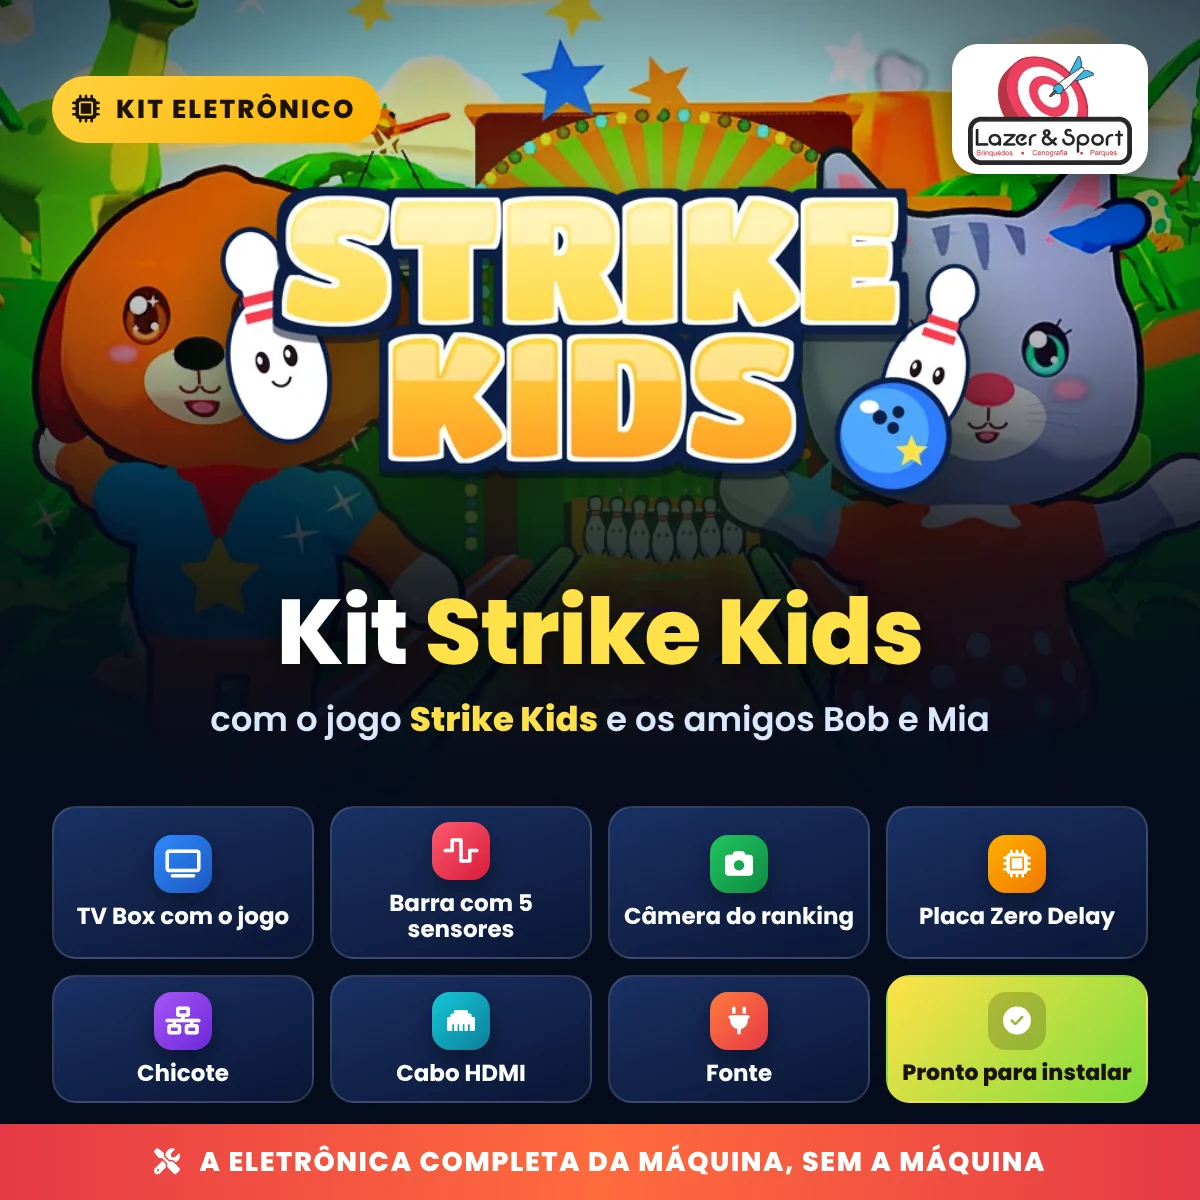
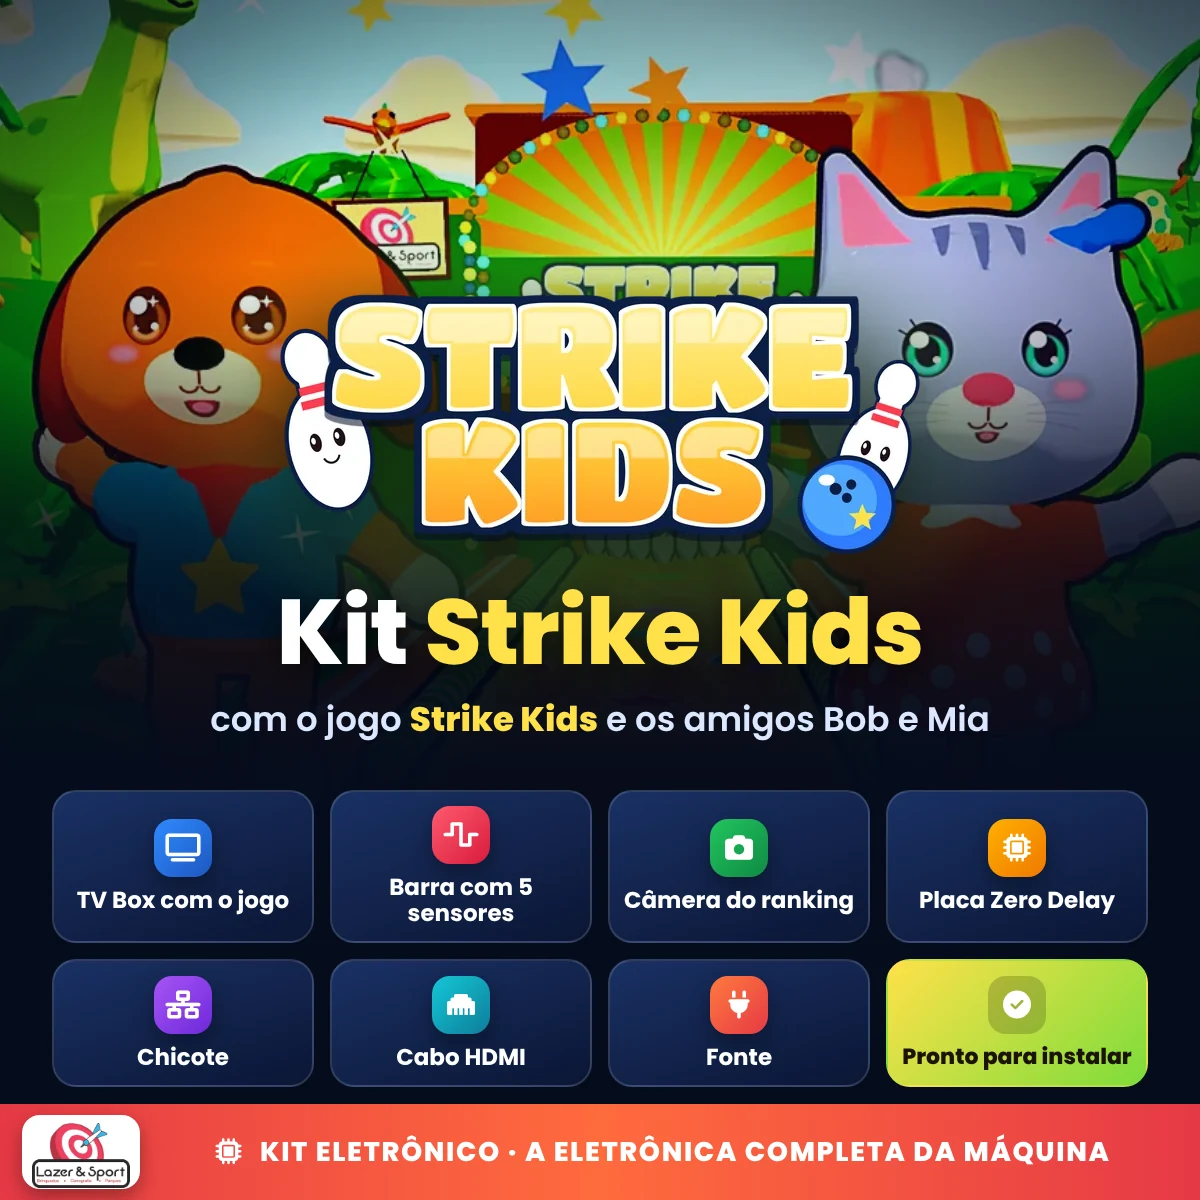
Kits: foto de cada item, artes sem nada sob os botões do card, vitrine centrada
O que vem no kit mostra a foto da peça ligada ao item ou a da biblioteca
dos kits (Cabo HDMI: a nossa foto); sem foto, o ícone. As artes deixam o
topo livre para o selo e os botões do card. Poucos kits ficam no centro; a
coluna da foto da ficha não estica mais; os selos do card do kit quebram
linha em vez de sumir.

Claude-Session: https://claude.ai/code/session_01BdLQMKFKjxTHdFwtnUJngg

diff --git a/ferramentas/kits/artes.html b/ferramentas/kits/artes.html
@@ -57,7 +57,7 @@ html, body { width: 1200px; height: 1200px; background: #050b1c; overflow: hidde
 .brilho {
   position: absolute;
   left: 50%;
-  top: 330px;
+  top: 424px;
   width: 900px;
   height: 520px;
   transform: translate(-50%, -50%);
@@ -105,11 +105,15 @@ html, body { width: 1200px; height: 1200px; background: #050b1c; overflow: hidde
 
 .marca img { max-width: 100%; max-height: 100%; }
 
+/* O TOPO FICA LIVRE: no card do site moram ali o selo "KIT" e os botões de
+   curtir e favoritar -- no celular eles ocupam até ~22% da altura (264 px
+   aqui). Nada da arte pode ficar por baixo deles: o herói começa em ~284. */
+
 /* o herói: o logo/ícone do jogo */
 .heroi {
   position: absolute;
   left: 50%;
-  top: 340px;
+  top: 424px;
   transform: translate(-50%, -50%);
   display: grid;
   place-items: center;
@@ -118,14 +122,13 @@ html, body { width: 1200px; height: 1200px; background: #050b1c; overflow: hidde
 .heroi img { display: block; filter: drop-shadow(0 24px 40px rgba(0, 0, 0, .6)); }
 
 .heroi--icone img {
-  width: 400px;
-  height: 400px;
-  border-radius: 84px;
+  width: 280px;
+  height: 280px;
+  border-radius: 60px;
   box-shadow: 0 0 0 6px rgba(255, 255, 255, .9), 0 0 80px var(--cor-brilho), 0 30px 60px rgba(0, 0, 0, .55);
-  transform: rotate(-4deg);
 }
 
-.heroi--logo img { width: 760px; }
+.heroi--logo img { width: 640px; }
 
 /* personagens do jogo dos dois lados do logo */
 .personagem {
@@ -170,7 +173,7 @@ html, body { width: 1200px; height: 1200px; background: #050b1c; overflow: hidde
   position: absolute;
   left: 52px;
   right: 52px;
-  top: 806px;
+  top: 790px;
   display: grid;
   grid-template-columns: repeat(4, 1fr);
   gap: 16px;
@@ -230,11 +233,12 @@ html, body { width: 1200px; height: 1200px; background: #050b1c; overflow: hidde
   left: 0;
   right: 0;
   bottom: 0;
-  height: 76px;
+  height: 96px;
+  padding: 0 40px 0 22px;
   display: flex;
   align-items: center;
-  justify-content: center;
-  gap: 18px;
+  justify-content: flex-start;
+  gap: 26px;
   background: linear-gradient(90deg, #e63946, #ff6b3d 50%, #e63946);
   font-weight: 800;
   font-size: 27px;
@@ -242,7 +246,9 @@ html, body { width: 1200px; height: 1200px; background: #050b1c; overflow: hidde
   text-transform: uppercase;
 }
 
-.faixa i { font-size: 26px; }
+.faixa i { font-size: 26px; margin-right: 10px; }
+.faixa-texto { flex: 1; text-align: center; }
+.faixa .marca { width: 118px; height: 74px; padding: 8px 10px; border-radius: 18px; box-shadow: 0 8px 20px rgba(0, 0, 0, .35); }
 </style>
 </head>
 <body>
@@ -251,17 +257,16 @@ html, body { width: 1200px; height: 1200px; background: #050b1c; overflow: hidde
   <div class="veu"></div>
   <div class="brilho"></div>
   <div id="personagens"></div>
-  <div class="topo">
-    <span class="selo"><i class="fa-solid fa-microchip"></i> KIT ELETRÔNICO</span>
-    <span class="marca"><img src="../../core/static/images/logo-site.webp" alt=""></span>
-  </div>
   <div class="heroi" id="heroi"></div>
   <div class="titulo">
     <h1 id="titulo"></h1>
     <p id="sub"></p>
   </div>
   <ul class="itens" id="itens"></ul>
-  <div class="faixa"><i class="fa-solid fa-screwdriver-wrench"></i> A eletrônica completa da máquina, sem a máquina</div>
+  <div class="faixa">
+    <span class="marca"><img src="../../core/static/images/logo-site.webp" alt=""></span>
+    <span class="faixa-texto"><i class="fa-solid fa-microchip"></i> Kit eletrônico · a eletrônica completa da máquina</span>
+  </div>
 </div>
 <script>
 const A = "../../core/static/site/arena/";

diff --git a/core/static/site/paginas/reposicao_info.css b/core/static/site/paginas/reposicao_info.css
@@ -746,6 +746,24 @@
 .kit-item:nth-child(4n+2) .kit-item-icone { background: linear-gradient(135deg, #e63946, #b91e30); }
 .kit-item:nth-child(4n+3) .kit-item-icone { background: linear-gradient(135deg, #12b886, #087f5b); }
 .kit-item:nth-child(4n+4) .kit-item-icone { background: linear-gradient(135deg, #f2ad19, #d77b00); }
+/* item com foto: a foto do produto no palco azul das peças (ls-peca-card.css) */
+.kit-item--foto { grid-template-columns: 64px minmax(0, 1fr) auto; min-height: 84px; }
+.kit-item-foto {
+    width: 64px;
+    height: 64px;
+    border-radius: 16px;
+    display: grid;
+    place-items: center;
+    overflow: hidden;
+    background: radial-gradient(circle at 50% 35%, #4a8cf0 0%, #1d56c0 55%, #0d2a66 100%);
+    box-shadow: inset 0 0 0 1px rgba(255, 255, 255, .16), 0 8px 18px rgba(0, 40, 110, .3);
+}
+.kit-item-foto img {
+    width: 86%;
+    height: 86%;
+    object-fit: contain;
+    filter: drop-shadow(0 6px 8px rgba(0, 0, 0, .45));
+}
 .kit-item-texto { min-width: 0; display: grid; gap: 2px; }
 .kit-item-texto strong { color: #fff; font-size: .92rem; line-height: 1.25; overflow-wrap: anywhere; }
 .kit-item-texto a { color: inherit; text-decoration: none; }
@@ -801,8 +819,16 @@
 }
 @media (max-width: 600px) {
     .kit-item { grid-template-columns: 38px minmax(0, 1fr) auto; min-height: 58px; padding: 9px 10px; }
+    .kit-item--foto { grid-template-columns: 56px minmax(0, 1fr) auto; min-height: 74px; }
+    .kit-item-foto { width: 56px; height: 56px; border-radius: 14px; }
     .kit-item-icone { width: 38px; height: 38px; border-radius: 11px; font-size: .95rem; }
     .kit-maquina { grid-template-columns: 56px minmax(0, 1fr) auto; gap: 11px; }
     .kit-maquina-foto { width: 56px; height: 56px; }
     .peca-faixa-kit { padding: 10px 10px; font-size: .74rem; letter-spacing: .1em; }
+}
+
+/* PC: a coluna da foto não estica até o fim da ficha (era um painel vazio
+   do tamanho da coluna de informações) e acompanha a rolagem. */
+@media (min-width: 921px) {
+    .peca-visual { align-self: start; position: sticky; top: 88px; }
 }

diff --git a/core/templates/reposicao_info.html b/core/templates/reposicao_info.html
@@ -154,8 +154,8 @@
                     <h2 id="kit-itens-titulo"><i class="fas fa-box-open" aria-hidden="true"></i>O que vem no kit</h2>
                     <ul class="kit-itens">
                         {% for item in componentes %}
-                        <li class="kit-item">
-                            <span class="kit-item-icone"><i class="fa-solid {{ item.icone }}" aria-hidden="true"></i></span>
+                        <li class="kit-item{% if item.foto %} kit-item--foto{% endif %}">
+                            {% if item.foto %}<span class="kit-item-foto"><img src="{{ item.foto }}" alt="{{ item.nome }}" loading="lazy" decoding="async"></span>{% else %}<span class="kit-item-icone"><i class="fa-solid {{ item.icone }}" aria-hidden="true"></i></span>{% endif %}
                             <span class="kit-item-texto">
                                 {% if item.url_peca %}<a href="{{ item.url_peca }}#breadcrumb"><strong>{{ item.nome }}</strong></a>{% else %}<strong>{{ item.nome }}</strong>{% endif %}
                                 {% if item.detalhe %}<small>{{ item.detalhe }}</small>{% endif %}

diff --git a/core/static/site/ls-peca-card.css b/core/static/site/ls-peca-card.css
@@ -474,6 +474,15 @@
 /* a faixa ocupa o pé do palco: o "Ver detalhes" e o 3D sobem */
 .pc-card--kit .pc-media:has(.pc-faixa-kit) .pc-espiar { bottom: 46px; }
 
+/* o kit: "Kit eletrônico" + "Para <máquina>" quebram linha em vez de sumir no corte */
+.pc-categorias--kit {
+    flex-wrap: wrap;
+    -webkit-mask-image: none;
+    mask-image: none;
+}
+
+.pc-categorias--kit .pc-categoria { max-width: 100%; }
+
 .pc-categoria--kit {
     border-color: rgba(255, 210, 63, .42);
     background: rgba(255, 210, 63, .14);

diff --git a/core/static/site/paginas/home-kits.css b/core/static/site/paginas/home-kits.css
@@ -132,7 +132,7 @@ html.ls-escuro:not(#_):not(#__) .ls-kits-faixa-sub {
 
 /* poucos kits: o cartão não estica a linha inteira */
 @media (min-width: 901px) {
-    .ls-kits-faixa-grade.pc-grade { grid-template-columns: repeat(auto-fill, minmax(250px, 290px)); }
+    .ls-kits-faixa-grade.pc-grade { grid-template-columns: repeat(auto-fit, minmax(250px, 290px)); justify-content: center; }
 }
 
 @media (max-width: 760px) {

diff --git a/core/static/site/paginas/kits.css b/core/static/site/paginas/kits.css
@@ -97,3 +97,8 @@
     .kits-passos li { padding: 11px 13px; }
     .kits-passo-icone { flex-basis: 38px; width: 38px; height: 38px; border-radius: 12px; font-size: .95rem; }
 }
+
+/* PC: poucos kits ficam no centro (sem o buraco de cards à direita) */
+@media (min-width: 901px) {
+    .kits-grade.pc-grade { grid-template-columns: repeat(auto-fit, minmax(250px, 290px)); justify-content: center; }
+}

diff --git a/core/templates/partials/peca_card.html b/core/templates/partials/peca_card.html
@@ -49,7 +49,7 @@
   {% endif %}
 
   <div class="pc-corpo">
-    <div class="pc-categorias">
+    <div class="pc-categorias{% if peca.eh_kit %} pc-categorias--kit{% endif %}">
       {% if peca.eh_kit %}
         <span class="pc-categoria pc-categoria--kit">Kit eletrônico</span>
         {% if peca.maquina %}<span class="pc-categoria">Para {{ peca.maquina.nome_brinquedo }}</span>{% endif %}

diff --git a/core/tests_kits.py b/core/tests_kits.py
@@ -141,6 +141,22 @@ class VitrineTests(Base):
         self.assertIn("boliche-virtual", html)
         self.assertIn("peca-faixa-kit", html)
         self.assertNotIn("Imagem em atualização", html)
+        # o item com foto mostra a foto (o Cabo HDMI: a nossa); o sem foto, o ícone
+        self.assertIn('class="kit-item kit-item--foto"', html)
+        self.assertIn("site/kits/itens/cabo-hdmi.webp", html)
+
+    def test_a_foto_do_item_vem_da_peca_ligada_antes_da_biblioteca(self):
+        item = ComponenteKit.objects.get(kit=self.kit, nome="Cabo HDMI")
+        self.assertIn("site/kits/itens/cabo-hdmi.webp", kits.foto_do_componente(item))
+        ImagemPeca.objects.create(peca_reposicao=self.cabo, imagem="pecas_reposicao/cabo-hdmi-xy.webp", ordem=1)
+        item = ComponenteKit.objects.select_related("peca").get(pk=item.pk)
+        self.assertIn("cabo-hdmi-xy", kits.foto_do_componente(item))
+
+    def test_a_biblioteca_so_tem_foto_do_que_existe(self):
+        self.assertTrue(kits.foto_da_biblioteca("Cabo HDMI").endswith("site/kits/itens/cabo-hdmi.webp"))
+        # sem arquivo na biblioteca: "" (a página mostra o ícone)
+        self.assertEqual(kits.foto_da_biblioteca("Placa Zero Delay"), "")
+        self.assertEqual(kits.foto_da_biblioteca("Item sem nome conhecido"), "")
 
     def test_endereco_de_peca_leva_ao_kit_e_o_contrario(self):
         resposta = self.client.get(reverse("reposicao_detalhe", args=[self.kit.pk]))
@@ -376,10 +392,10 @@ class MigracaoDeDadosTests(TestCase):
 
         pasta = Path(kits.arquivo_da_foto("x")).parent
         self.assertEqual(
-            sorted(p.name for p in pasta.iterdir()),
+            sorted(p.name for p in pasta.glob("*.webp")),
             ["kit-boliche-virtual.webp", "kit-lazer-shot.webp", "kit-strike-kids.webp"],
         )
-        for arte in pasta.iterdir():
+        for arte in pasta.glob("*.webp"):
             with Image.open(arte) as imagem:
                 self.assertEqual(imagem.size, (1200, 1200), arte.name)
         for nome, _maquina, _chave, descricao, itens in kits.KITS_INICIAIS:

diff --git a/core/kits.py b/core/kits.py
@@ -66,6 +66,51 @@ def icone_do_componente(nome):
     return ICONE_PADRAO
 
 
+#: A FOTO DE CADA ITEM (o dono: "nos itens do kit, realmente ponha fotos dos
+#: produtos, algumas temos em peça de reposição outros puxe da web"). Primeiro
+#: a foto da PEÇA ligada ao item (cadastrada no painel, com o recorte
+#: automático); sem ela, a da biblioteca dos kits (site/kits/itens/<nome>.webp:
+#: fotos NOSSAS, ou de licença livre -- nunca de outra loja). Sem nenhuma, o
+#: ícone. Pela primeira palavra-chave do nome, como o ícone.
+FOTOS_DOS_ITENS = (
+    (("tv box", "tvbox", "android box"), "tv-box"),
+    (("webcam", "camera", "cameras"), "camera"),
+    (("zero delay",), "placa-zero-delay"),
+    (("sensor", "sensores"), "barra-de-sensores"),
+    (("arma", "pistola"), "arma"),
+    (("chicote",), "chicote"),
+    (("hdmi",), "cabo-hdmi"),
+    (("fonte",), "fonte"),
+)
+PASTA_DOS_ITENS = PASTA / "itens"
+
+
+def foto_da_biblioteca(nome):
+    """O endereço da foto do item na biblioteca dos kits, ou "" (sem foto para ele)."""
+    from django.templatetags.static import static
+
+    texto = _normalizar(nome)
+    for palavras, arquivo in FOTOS_DOS_ITENS:
+        if any(_contem(texto, palavra) for palavra in palavras):
+            if (PASTA_DOS_ITENS / f"{arquivo}.webp").exists():
+                return static(f"site/kits/itens/{arquivo}.webp")
+            return ""
+    return ""
+
+
+def foto_do_componente(item):
+    """A foto do item do kit: a da peça ligada a ele, a da biblioteca, ou ""."""
+    peca = item.peca if item.peca_id else None
+    if peca is not None:
+        for foto in peca.imagens_ordenadas:
+            if foto.imagem:
+                try:
+                    return foto.imagem.url
+                except Exception:  # noqa: BLE001 -- arquivo sumido: segue para a biblioteca
+                    break
+    return foto_da_biblioteca(item.nome)
+
+
 def resumo_dos_itens(componentes, quantos=3):
     """A lista curta do card: "7 itens: TV Box, Barra com 5 sensores, Câmera…".
 

diff --git a/core/views_kits.py b/core/views_kits.py
@@ -17,6 +17,7 @@ from django.shortcuts import get_object_or_404, redirect, render
 from django.views import View
 
 from . import favoritos as servico_favoritos
+from . import kits
 from .home_cache import get_cached_catalog_page
 from .models import PecasReposicao
 
@@ -77,9 +78,10 @@ class KitDetalheView(View):
                 "detalhe": item.detalhe,
                 "quantidade": item.quantidade,
                 "icone": item.icone,
+                "foto": kits.foto_do_componente(item),
                 "url_peca": _url_da_peca_avulsa(item),
             }
-            for item in kit.componentes_kit.all()
+            for item in kit.componentes_kit.select_related("peca").prefetch_related("peca__imagem_peca_reposicao")
         ]
         maquina = kit.maquina if (kit.maquina_id and kit.maquina and kit.maquina.ativo) else None
         imagens = list(kit.imagens_ordenadas)
